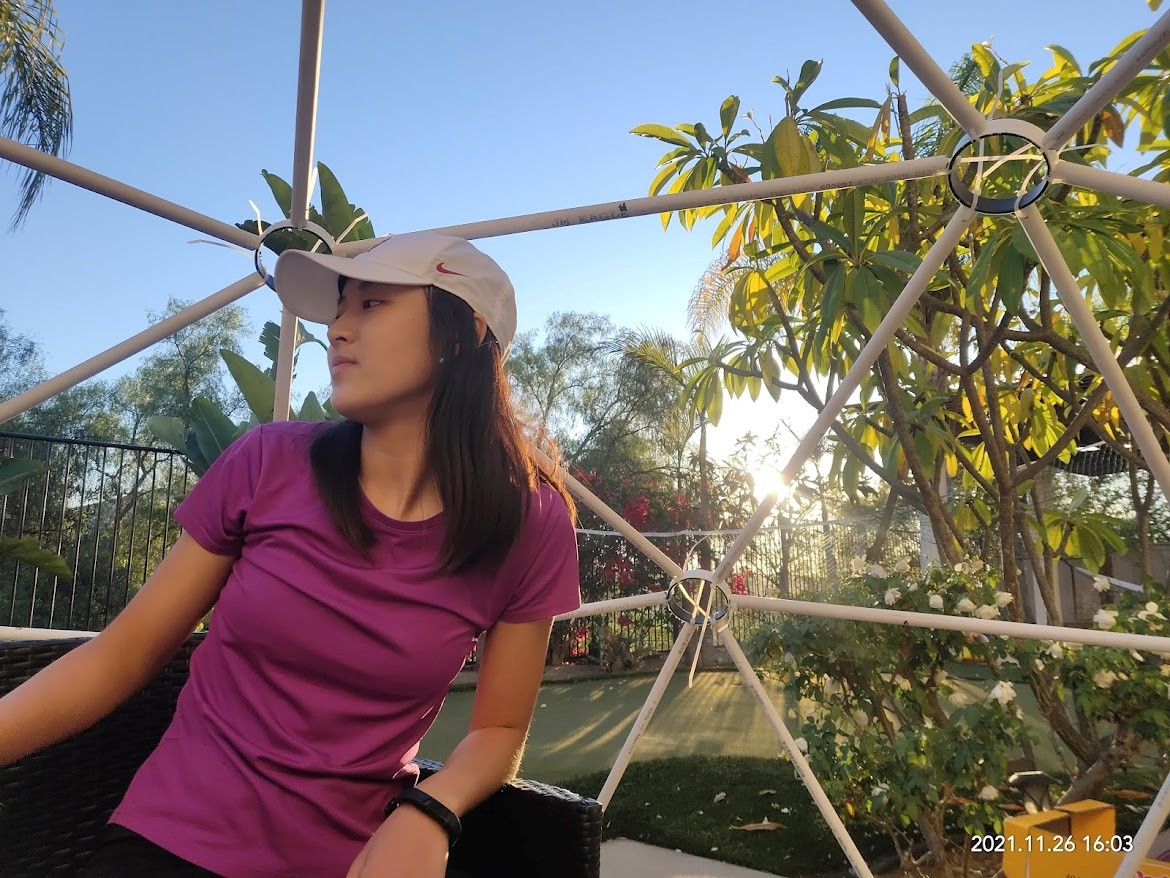
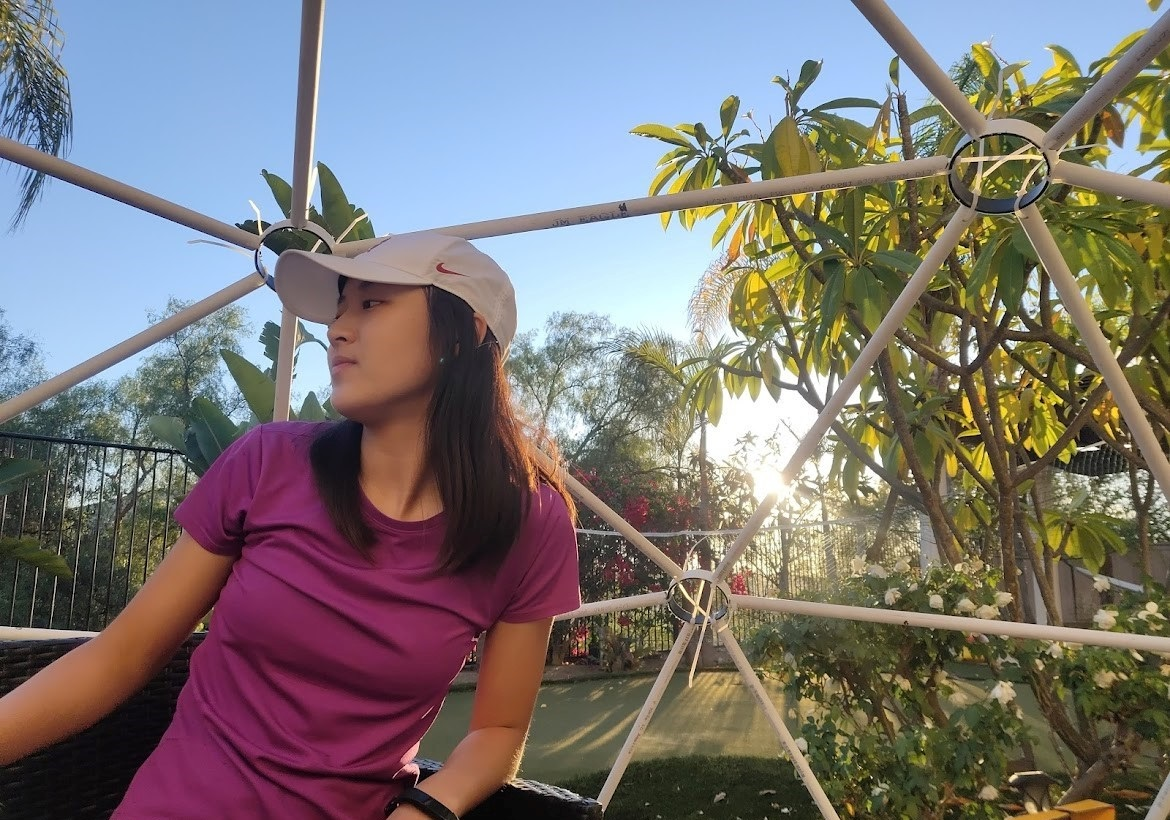
got flips to work for all images :cool:

diff --git a/script.js b/script.js
@@ -5,11 +5,34 @@ menuIcon.addEventListener("click", () => {
 	navbar.classList.toggle("change");
 });
 
-const pic = document.querySelector(".pic");
-const col = document.querySelector(".col");
-const flip = document.querySelector(".flip");
+// const pic = document.querySelector(".pic");
+// const col = document.querySelector(".col");
+// const flip = document.querySelector(".flip");
 
-pic.addEventListener("click", () => {
-	col.classList.toggle("change");
-	pic.classList.toggle("no-hover");
+// pic.addEventListener("click", () => {
+// 	col.classList.toggle("change");
+// 	pic.classList.toggle("no-hover");
+// });
+
+const pics = document.querySelectorAll(".pic");
+const col = document.querySelectorAll(".col");
+console.log(pics, col);
+
+function myfunction(i) {
+	console.log("clicked", i, col[i], pics[i]);
+	col[i].classList.toggle("change");
+	pics[i].classList.toggle("no-hover");
+}
+
+// for (var i = 0; i < pics.length; i++) {
+// 	pics[i].addEventListener("click", function () {
+// 		myfunction(i);
+// 	});
+// }
+
+Array.prototype.forEach.call(pics, function (pic, index) {
+	pic.addEventListener("click", function () {
+		console.log(index);
+		myfunction(index);
+	});
 });

diff --git a/about.html b/about.html
@@ -73,7 +73,7 @@
 							class="underline"
 							target="_blank"
 							>podcast</a
-						>, and do other fun things including fencing, creative writing, and codebreaking in my free time.
+						>, and do <a href="projects.html#fencing" class="underline">other fun things</a> including fencing, creative writing, and codebreaking.
 					</p>
 					<p>
 						Contact: <a

diff --git a/projects.html b/projects.html
@@ -174,7 +174,8 @@
 								<img src="/assets/dome.jpg" class="crop" />
 								<div class="overlay"></div>
 								<div class="info">
-									<h3>Other projects</h3>
+									<h3>Other fun projects</h3>
+									<p>(ie building a geodesic dome)</p>
 								</div>
 							</div>
 						</div>
